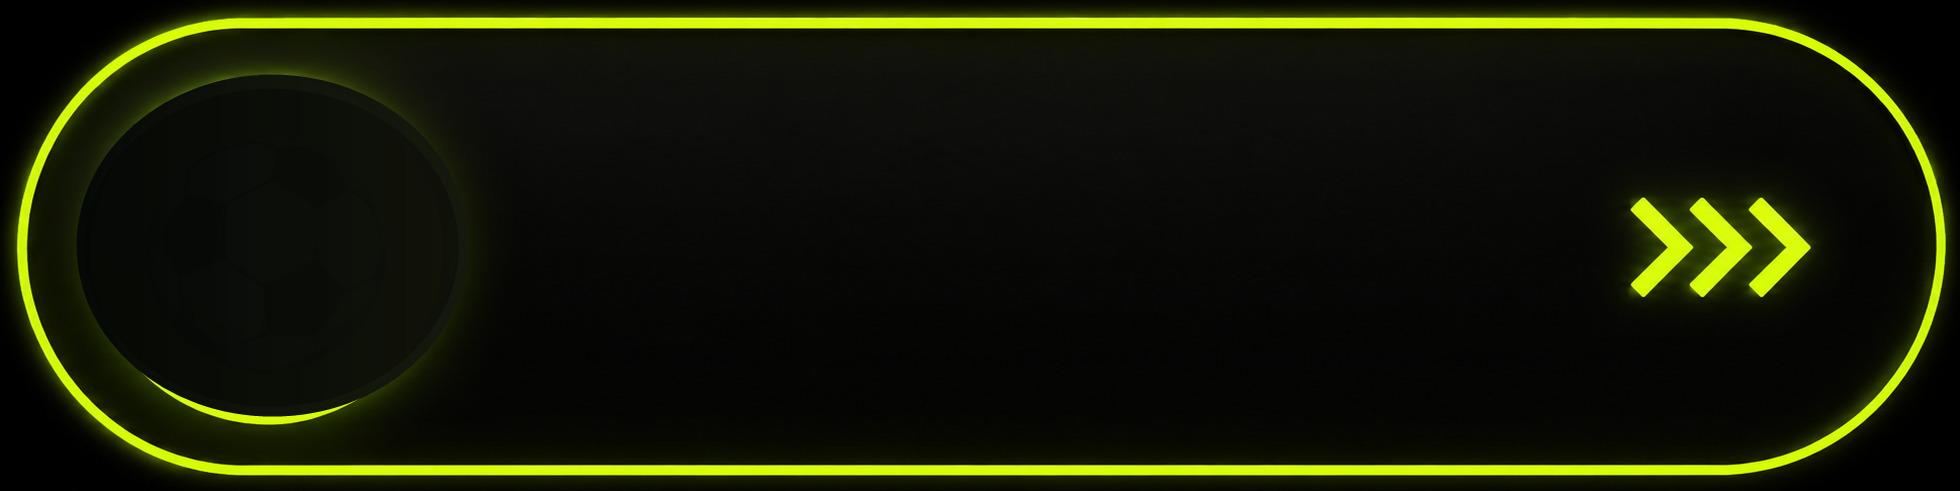
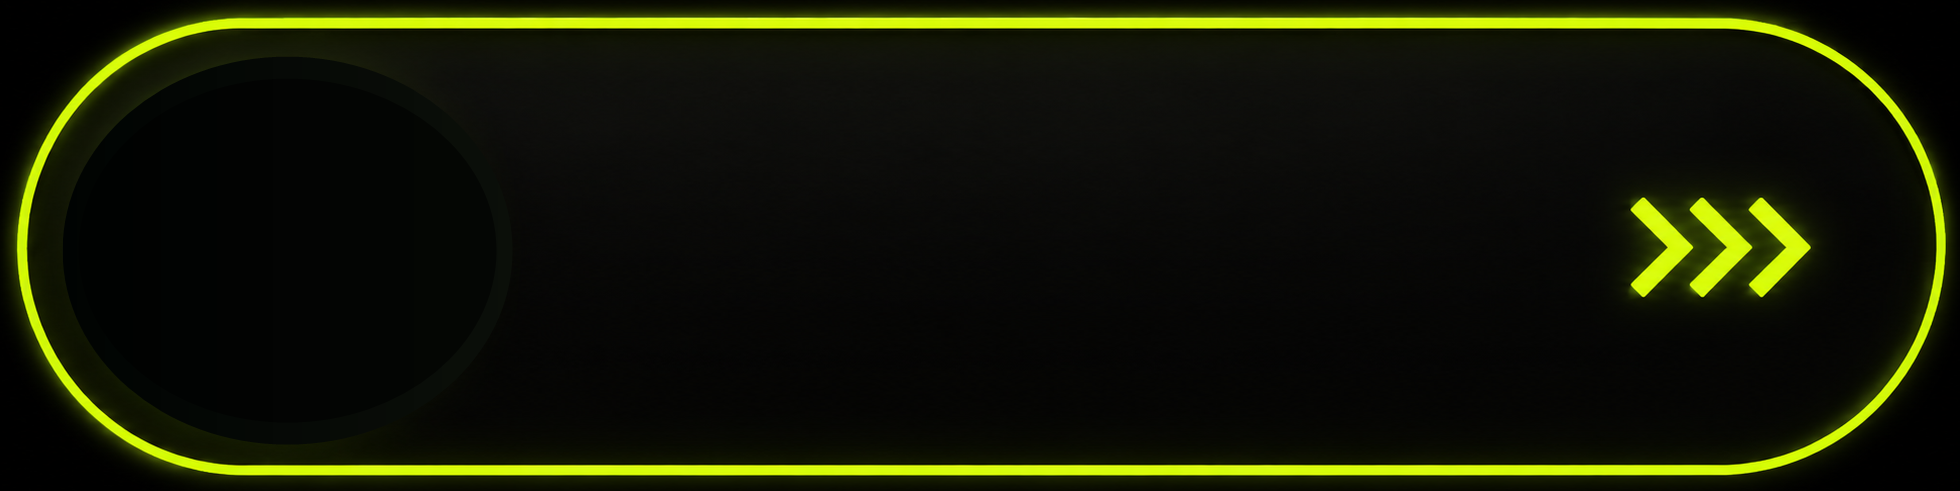
Improve splash swipe with draggable soccer ball handle

Changed region(s): [[0.0311, 0.1222, 0.2179, 0.8859], [0.1867, 0.1833, 0.2179, 0.2749]]

diff --git a/css/splash-fit.css b/css/splash-fit.css
@@ -22,4 +22,4 @@
 .splash-cover-v3{background-image:url("../assets/backgrounds/splash-poster.png")!important;background-size:cover!important;background-position:center center!important;background-repeat:no-repeat!important}.splash-cover-v3 .splash-cover-bg,.splash-cover-v3 .AcademyHeroPanel,.splash-cover-v3 .splash-academy-copy{display:none!important}.splash-cover-v3 .splash-academy-content{grid-template-rows:auto auto 1fr auto!important}.splash-cover-v3 .splash-logo-v1,.splash-cover-v3 .splash-title-v1,.splash-cover-v3 .splash-swipe{position:relative;z-index:2}
 .splash-cover-v3 .splash-logo-v1{width:clamp(260px,72vw,290px)!important;height:auto!important;max-width:72%!important;max-height:none!important;object-fit:contain!important;margin:0!important;padding:0!important;border:0!important;border-radius:0!important;background:transparent!important;box-shadow:none!important;filter:none!important;backdrop-filter:none!important}
 .splash-cover-v3 .splash-title-v1{display:grid!important;gap:.01em!important;width:100%!important;max-width:min(92vw,360px)!important;overflow:visible!important;color:#f7fff8!important;background:none!important;-webkit-background-clip:initial!important;background-clip:initial!important;text-align:center!important;justify-self:center!important;text-transform:uppercase!important;font-size:clamp(32px,8.7vw,42px)!important;line-height:.9!important;letter-spacing:-.045em!important;text-shadow:0 12px 34px rgba(0,0,0,.68)!important}.splash-cover-v3 .splash-title-v1 span{display:block;white-space:nowrap}.splash-cover-v3 .splash-title-v1 em{color:#d7ff2e;font-style:normal}
-.splash-cover-v3 .splash-swipe{width:min(92vw,340px)!important;display:block!important;position:relative!important;align-self:end!important;touch-action:none!important;cursor:pointer!important;--swipe-progress:0;--swipe-reveal:0%;--swipe-x:0px;--swipe-rotate:0deg}.splash-cover-v3 .splash-swipe-stage{position:relative;width:100%;display:grid;place-items:center}.splash-cover-v3 .splash-swipe-asset{position:relative;z-index:2;display:block;width:min(92vw,340px);height:auto;max-width:100%;object-fit:contain;pointer-events:none;user-select:none}.splash-cover-v3 .splash-swipe-stage>em{position:absolute;left:50%;top:50%;z-index:3;transform:translate(-50%,-50%);width:max-content;max-width:58%;overflow:hidden;clip-path:inset(0 calc(100% - var(--swipe-reveal)) 0 0);opacity:var(--swipe-progress);color:#f7fff8;font-size:clamp(14px,4.1vw,20px);font-weight:1000;font-style:normal;line-height:1;letter-spacing:.02em;text-transform:uppercase;text-shadow:0 0 14px rgba(215,255,46,.55),0 2px 10px rgba(0,0,0,.75);white-space:nowrap;pointer-events:none;transition:opacity .18s ease,clip-path .18s ease}.splash-cover-v3 .splash-swipe.dragging .splash-swipe-stage>em{transition:none}.splash-cover-v3 .splash-swipe-track{position:absolute!important;inset:0!important;z-index:4!important;display:block!important;width:100%!important;height:100%!important;padding:0!important;margin:0!important;border:0!important;border-radius:999px!important;background:transparent!important;box-shadow:none!important;overflow:visible!important;opacity:1!important}.splash-cover-v3 .splash-swipe-track::before,.splash-cover-v3 .splash-swipe-track::after{display:none!important;content:none!important}.splash-cover-v3 .splash-swipe-track b,.splash-cover-v3 .splash-swipe-track strong{display:none!important}
+.splash-cover-v3 .splash-swipe{width:min(92vw,340px)!important;display:block!important;position:relative!important;align-self:end!important;touch-action:none!important;cursor:pointer!important;--swipe-progress:0;--swipe-reveal:0%;--swipe-x:0px;--swipe-rotate:0deg}.splash-cover-v3 .splash-swipe-stage{position:relative;width:100%;display:grid;place-items:center}.splash-cover-v3 .splash-swipe-asset{position:relative;z-index:2;display:block;width:min(92vw,340px);height:auto;max-width:100%;object-fit:contain;pointer-events:none;user-select:none}.splash-cover-v3 .splash-swipe-handle{position:absolute;left:3.05%;top:50%;z-index:4;width:20.2%;height:auto;max-width:74px;min-width:54px;object-fit:contain;pointer-events:none;user-select:none;transform:translate(var(--swipe-x),-50%) rotate(var(--swipe-rotate));transition:transform .22s ease}.splash-cover-v3 .splash-swipe.dragging .splash-swipe-handle{transition:none}.splash-cover-v3 .splash-swipe-stage>em{position:absolute;left:50%;top:50%;z-index:3;transform:translate(-50%,-50%);width:max-content;max-width:58%;overflow:hidden;clip-path:inset(0 calc(100% - var(--swipe-reveal)) 0 0);opacity:var(--swipe-progress);color:#f7fff8;font-size:clamp(14px,4.1vw,20px);font-weight:1000;font-style:normal;line-height:1;letter-spacing:.02em;text-transform:uppercase;text-shadow:0 0 14px rgba(215,255,46,.55),0 2px 10px rgba(0,0,0,.75);white-space:nowrap;pointer-events:none;transition:opacity .18s ease,clip-path .18s ease}.splash-cover-v3 .splash-swipe.dragging .splash-swipe-stage>em{transition:none}.splash-cover-v3 .splash-swipe-track{position:absolute!important;inset:0!important;z-index:5!important;display:block!important;width:100%!important;height:100%!important;padding:0!important;margin:0!important;border:0!important;border-radius:999px!important;background:transparent!important;box-shadow:none!important;overflow:visible!important;opacity:1!important}.splash-cover-v3 .splash-swipe-track::before,.splash-cover-v3 .splash-swipe-track::after{display:none!important;content:none!important}.splash-cover-v3 .splash-swipe-track b,.splash-cover-v3 .splash-swipe-track strong{display:none!important}

diff --git a/js/app/main.js b/js/app/main.js
@@ -72,7 +72,7 @@ function setTrainingStage(stage){ trainingStage=stage; renderTrainingRoute(); }
 function setOnboardStep(step){ onboardingStep=step; const progress=document.querySelector(".onboard-progress"); if(progress){ progress.dataset.step=String(step); progress.setAttribute("aria-label",`Onboarding progress: step ${step} of 3`); } document.querySelectorAll("[data-onboard-step]").forEach(panel=>{ panel.hidden=Number(panel.dataset.onboardStep)!==step; }); document.querySelectorAll("[data-step-dot]").forEach(dot=>dot.classList.toggle("active",Number(dot.dataset.stepDot)===step)); const confirmName=document.getElementById("confirmName"), confirmPosition=document.getElementById("confirmPosition"); if(confirmName)confirmName.textContent=localStorage.getItem(PLAYER_NAME_KEY)||"—"; if(confirmPosition)confirmPosition.textContent=localStorage.getItem(SELECTED_POSITION_KEY)||selectedPosition||"—"; }
 function bindOnboardingWizard(){ const nameInput=document.getElementById("nameInput"); const storedName=localStorage.getItem(PLAYER_NAME_KEY)||""; if(nameInput){ nameInput.value=storedName; const next=document.querySelector('[data-action="onboard-next-name"]'); const updateName=()=>{ if(nameInput.value.trim())next?.removeAttribute("disabled"); else next?.setAttribute("disabled","true"); }; nameInput.addEventListener("input",updateName); updateName(); } if(currentRoute==="onboard")setOnboardStep(storedName?(localStorage.getItem(SELECTED_POSITION_KEY)?3:2):1); }
 function bindOnboardPositionSelector(){ const pitch=document.querySelector(".academy-pitch"), ball=document.querySelector(".pitch-ball"), confirm=document.querySelector("#positionConfirm"), cta=document.querySelector(".onboard-position-next"), nodes=[...document.querySelectorAll(".pitch-node")]; if(!pitch||!ball||!nodes.length)return; selectedPosition=localStorage.getItem(SELECTED_POSITION_KEY)||""; const updateCta=()=>{ if(selectedPosition)cta?.removeAttribute("disabled"); else cta?.setAttribute("disabled","true"); }; const setPosition=node=>{ if(!node)return; nodes.forEach(n=>n.classList.remove("selected","targeted")); node.classList.add("selected"); selectedPosition=node.dataset.pos; localStorage.setItem(SELECTED_POSITION_KEY,selectedPosition); ball.dataset.pos=selectedPosition; ball.style.gridArea=node.dataset.slot||node.style.gridArea; if(confirm)confirm.innerHTML=`<span>Selected:</span><b>${selectedPosition}</b>`; updateCta(); }; const nearestNode=(clientX,clientY)=>{ let nearest=null,best=Infinity; nodes.forEach(node=>{ const r=node.getBoundingClientRect(),x=r.left+r.width/2,y=r.top+r.height/2,d=Math.hypot(clientX-x,clientY-y); if(d<best){ best=d; nearest=node; } }); return nearest; }; nodes.forEach(node=>node.addEventListener("click",()=>setPosition(node))); if(selectedPosition){ const existing=nodes.find(n=>n.dataset.pos===selectedPosition); if(existing)setPosition(existing); } let dragging=false; ball.addEventListener("pointerdown",e=>{ dragging=true; ball.setPointerCapture?.(e.pointerId); ball.classList.add("dragging"); }); ball.addEventListener("pointermove",e=>{ if(!dragging)return; const node=nearestNode(e.clientX,e.clientY); nodes.forEach(n=>n.classList.toggle("targeted",n===node)); }); ball.addEventListener("pointerup",e=>{ if(!dragging)return; dragging=false; ball.classList.remove("dragging"); const node=nearestNode(e.clientX,e.clientY); setPosition(node); }); updateCta(); }
-function bindSplashSwipe(){ const swipe=document.querySelector("[data-splash-swipe]"),track=swipe?.querySelector(".splash-swipe-track"); if(!swipe||!track)return; let startX=0,dragging=false,entered=false; const setProgress=value=>{ const progress=Math.max(0,Math.min(1,value)),travel=Math.max(1,track.getBoundingClientRect().width-76); swipe.style.setProperty("--swipe-progress",String(progress)); swipe.style.setProperty("--swipe-reveal",`${progress*100}%`); swipe.style.setProperty("--swipe-x",`${travel*progress}px`); swipe.style.setProperty("--swipe-rotate",`${360*progress}deg`); }; const enter=()=>{ if(entered)return; entered=true; setProgress(1); swipe.classList.add("complete"); setTimeout(()=>handleAction("enter"),460); }; const update=clientX=>{ const travel=Math.max(1,track.getBoundingClientRect().width-76); setProgress((clientX-startX)/travel); }; swipe.addEventListener("pointerdown",event=>{ if(entered)return; const rect=track.getBoundingClientRect(); if(event.clientX>rect.left+rect.width*.34)return; dragging=true; startX=event.clientX; swipe.setPointerCapture?.(event.pointerId); swipe.classList.add("dragging"); setProgress(0); }); swipe.addEventListener("pointermove",event=>{ if(dragging)update(event.clientX); }); swipe.addEventListener("pointerup",event=>{ if(!dragging)return; dragging=false; swipe.classList.remove("dragging"); update(event.clientX); const progress=Number(getComputedStyle(swipe).getPropertyValue("--swipe-progress"))||0; progress>=.82?enter():setProgress(0); }); swipe.addEventListener("pointercancel",()=>{ dragging=false; swipe.classList.remove("dragging"); setProgress(0); }); swipe.addEventListener("click",event=>{ if(!dragging&&event.detail)enter(); }); swipe.addEventListener("keydown",event=>{ if(event.key==="Enter"||event.key===" "){ event.preventDefault(); enter(); } }); setProgress(0); }
+function bindSplashSwipe(){ const swipe=document.querySelector("[data-splash-swipe]"),track=swipe?.querySelector(".splash-swipe-track"),handle=swipe?.querySelector(".splash-swipe-handle"); if(!swipe||!track)return; let startX=0,dragging=false,entered=false; const metrics=()=>{ const trackRect=track.getBoundingClientRect(),handleRect=handle?.getBoundingClientRect(); const handleWidth=handleRect?.width||76,startOffset=Math.max(0,(handleRect?.left||trackRect.left)-trackRect.left); return{trackRect,handleWidth,startOffset,maxTravel:Math.max(1,trackRect.width-handleWidth-startOffset)}; }; const setProgress=value=>{ const progress=Math.max(0,Math.min(1,value)),maxTravel=metrics().maxTravel; swipe.style.setProperty("--swipe-progress",String(progress)); swipe.style.setProperty("--swipe-reveal",`${progress*100}%`); swipe.style.setProperty("--swipe-x",`${maxTravel*progress}px`); swipe.style.setProperty("--swipe-rotate",`${360*progress}deg`); }; const enter=()=>{ if(entered)return; entered=true; setProgress(1); swipe.classList.add("complete"); setTimeout(()=>handleAction("enter"),460); }; const update=clientX=>setProgress((clientX-startX)/metrics().maxTravel); swipe.addEventListener("pointerdown",event=>{ if(entered)return; const {trackRect,handleWidth,startOffset}=metrics(); if(event.clientX>trackRect.left+startOffset+handleWidth*1.35)return; dragging=true; startX=event.clientX; swipe.setPointerCapture?.(event.pointerId); swipe.classList.add("dragging"); setProgress(0); }); swipe.addEventListener("pointermove",event=>{ if(dragging)update(event.clientX); }); swipe.addEventListener("pointerup",event=>{ if(!dragging)return; dragging=false; swipe.classList.remove("dragging"); update(event.clientX); const progress=Number(getComputedStyle(swipe).getPropertyValue("--swipe-progress"))||0; progress>=.82?enter():setProgress(0); }); swipe.addEventListener("pointercancel",()=>{ dragging=false; swipe.classList.remove("dragging"); setProgress(0); }); swipe.addEventListener("click",event=>{ if(!dragging&&event.detail)enter(); }); swipe.addEventListener("keydown",event=>{ if(event.key==="Enter"||event.key===" "){ event.preventDefault(); enter(); } }); setProgress(0); }
 function bindScreen(){ document.querySelectorAll("[data-route]").forEach(el=>el.addEventListener("click",()=>{ const route=el.dataset.route; if(!VALID_ROUTES.has(route)){ console.warn("[PitchIQ route] Route missing:",route); toast("Route not available yet"); return; } goto(route); })); document.querySelectorAll("[data-action]").forEach(el=>el.addEventListener("click",()=>handleAction(el.dataset.action,el))); document.querySelectorAll("[data-answer]").forEach(el=>el.addEventListener("click",()=>manualAnswer(el.dataset.answer))); bindSplashSwipe(); bindOnboardingWizard(); bindOnboardPositionSelector(); document.querySelectorAll("[data-drill]").forEach(btn=>btn.addEventListener("click",()=>{ document.querySelectorAll("[data-drill]").forEach(b=>b.classList.remove("active")); btn.classList.add("active"); selectedDrillId=btn.dataset.drill; toast("Selected: "+btn.querySelector("b").textContent); })); const sens=document.getElementById("sensitivity"); if(sens)sens.addEventListener("input",e=>camera?.setSensitivity(Number(e.target.value))); }
 function handleAction(action,el){ if(action==="enter")return onboardingComplete()?goto("home"):goto("onboard"); if(action==="onboard-next-name")return onboardNextName(); if(action==="onboard-next-position")return onboardNextPosition(); if(action==="save-profile")return saveProfile(); if(action==="reset")return reset(); if(action==="player-settings-open")return togglePlayerSettings(true); if(action==="player-settings-close")return togglePlayerSettings(false); if(action==="training-home")return trainingHome(); if(action==="choose-drill-stage")return setTrainingStage("choose-drill"); if(action==="choose-difficulty-stage")return setTrainingStage("choose-difficulty"); if(action==="choose-drill")return chooseDrill(el); if(action==="choose-difficulty")return chooseDifficulty(el); if(action==="claim-reward-stage")return setTrainingStage("claim-reward"); if(action==="set-response-mode")return setResponseMode(el?.dataset?.mode); if(action==="start-mission-training")return startMissionTraining(); if(action==="training-setup-continue")return setTrainingStage("ready"); if(action==="training-setup-cancel")return trainingHome(); if(action==="start-training")return startRepCountdown(); if(action==="live-rep-exit")return requestExitRep(); if(action==="continue-live-rep")return resumeLiveRep(); if(action==="end-live-rep")return cancelLiveRep(); if(action==="voice")return startVoice(); if(action==="correct")return correct(); if(action==="wrong")return wrong(); if(action==="finish-training")return finishTraining(); if(action==="test-video")return testVideo(); if(action==="front-camera")return startCamera("user"); if(action==="rear-camera")return startCamera("environment"); if(action==="stop-camera")return camera?.stop(); if(action==="camera-round")return cameraRound(); if(action==="open-pack")return openPackAction(); }
 function onboardNextName(){ const name=document.getElementById("nameInput")?.value?.trim(); if(!name)return toast("Enter player name"); localStorage.setItem(PLAYER_NAME_KEY,name); setOnboardStep(2); }

diff --git a/js/app/routes.js b/js/app/routes.js
@@ -26,7 +26,7 @@ function playerOverall(state){ return Math.min(99,60+state.game.level+(state.ana
 
 export function AcademyHeroPanel(){return `<section class="AcademyHeroPanel" aria-label="Youth footballer scanning the field"><svg class="academy-hero-svg" viewBox="0 0 320 236" role="img" aria-labelledby="academyHeroTitle academyHeroDesc" preserveAspectRatio="xMidYMid meet"><title id="academyHeroTitle">PitchIQ Academy hero</title><desc id="academyHeroDesc">A youth footballer scans over the shoulder while an incoming ball and left-right scan arcs show football intelligence training.</desc><defs><radialGradient id="heroGlow" cx="50%" cy="42%" r="64%"><stop offset="0%" stop-color="#d7ff2e" stop-opacity=".28"/><stop offset="48%" stop-color="#31f79a" stop-opacity=".08"/><stop offset="100%" stop-color="#010806" stop-opacity="0"/></radialGradient><linearGradient id="kitGlow" x1="0" x2="1"><stop stop-color="#d7ff2e"/><stop offset="1" stop-color="#31f79a"/></linearGradient><filter id="softGlow" x="-60%" y="-60%" width="220%" height="220%"><feGaussianBlur stdDeviation="3" result="blur"/><feMerge><feMergeNode in="blur"/><feMergeNode in="SourceGraphic"/></feMerge></filter></defs><rect width="320" height="236" rx="28" fill="#020807"/><rect x="1" y="1" width="318" height="234" rx="27" fill="url(#heroGlow)"/><g class="hero-particles" fill="#d7ff2e" opacity=".55"><circle cx="58" cy="58" r="1.4"/><circle cx="91" cy="76" r="1"/><circle cx="238" cy="54" r="1.2"/><circle cx="268" cy="82" r="1"/><circle cx="46" cy="132" r="1"/><circle cx="282" cy="145" r="1.4"/></g><g class="hero-pitch" stroke="#d7ff2e" stroke-opacity=".22" fill="none"><path d="M20 196h280"/><path d="M42 168h236"/><path d="M69 142h182"/><path d="M160 142v54"/><path d="M97 196c8-22 118-22 126 0"/><path d="M126 196c3-8 65-8 68 0"/><path d="M120 168h80v28h-80z" opacity=".55"/><path d="M145 168h30v14h-30z" opacity=".5"/></g><g class="scan scan-left" stroke="#d7ff2e" stroke-width="1.7" stroke-linecap="round" fill="none" filter="url(#softGlow)"><path d="M142 92 C104 90 74 107 50 136" stroke-dasharray="4 7"/><path d="M139 111 C105 112 82 126 61 151" opacity=".72"/><path d="M78 126 l-28 10 19 18"/><path d="M64 89 q34 21 67 20" opacity=".35"/></g><g class="scan scan-right" stroke="#d7ff2e" stroke-width="1.7" stroke-linecap="round" fill="none" filter="url(#softGlow)"><path d="M178 90 C216 88 248 105 272 134" stroke-dasharray="4 7"/><path d="M181 111 C218 112 240 126 260 151" opacity=".72"/><path d="M242 124 l28 10 -19 18"/><path d="M256 88 q-34 22-67 21" opacity=".35"/></g><g class="incoming-ball" transform="translate(236 47)"><path d="M-26 18 q-30 9-58 35" stroke="#d7ff2e" stroke-width="1.4" stroke-linecap="round" stroke-dasharray="7 8" opacity=".58"/><circle cx="0" cy="0" r="19" fill="#ecffe1" stroke="#d7ff2e" stroke-width="2" filter="url(#softGlow)"/><path d="M0-12 l11 8 -4 13h-14l-4-13z" fill="#101711" opacity=".88"/><path d="M0-19v7M18-5l-7 1M11 16L7 9M-11 16l4-7M-18-5l7 1" stroke="#101711" stroke-width="2" opacity=".82"/></g><g class="player-silhouette" filter="url(#softGlow)"><path d="M164 83 q14 2 23 15 q5 8 3 20 q-5 25-15 56 h-42 q7-39 5-61 q-1-17 8-25 q7-6 18-5z" fill="#03100b" stroke="url(#kitGlow)" stroke-width="2"/><path d="M151 79 q4-18 21-18 q17 1 21 17 q-7 11-22 13 q-13 0-20-12z" fill="#06120d" stroke="#d7ff2e" stroke-width="1.6"/><path d="M187 87 q13 9 25 29" stroke="#d7ff2e" stroke-width="5" stroke-linecap="round" opacity=".42"/><path d="M142 101 q-19 19-31 42" stroke="#d7ff2e" stroke-width="5" stroke-linecap="round" opacity=".42"/><path d="M146 174 l-20 43M171 174 l22 43" stroke="#06120d" stroke-width="16" stroke-linecap="round"/><path d="M146 174 l-20 43M171 174 l22 43" stroke="#d7ff2e" stroke-width="2" stroke-linecap="round" opacity=".65"/><path d="M158 67 q14-12 33 2 q-6-18-27-17 q-18 2-25 17 q10-5 19-2z" fill="#010605" stroke="#d7ff2e" stroke-opacity=".4"/></g><g class="scan-labels" fill="#d7ff2e" font-family="Inter, Arial, sans-serif" font-weight="900" font-size="10" letter-spacing="1"><text x="32" y="159">SCAN LEFT</text><text x="226" y="159">SCAN RIGHT</text></g></svg></section>`}
 
-export function renderSplash(){return `<section class="screen center active splash-v1 splash-academy-v2 splash-cover-v3" id="splash"><div class="splash-content splash-academy-content"><img class="logo hero-logo splash-logo-v1 splash-academy-logo" src="assets/brand/welltrack-performance-logo.png" alt="WellTrack Performance"><h1 class="splash-title-v1 splash-academy-title"><span>TRAIN THE <em>BRAIN</em></span><span>BEHIND THE <em>GAME</em></span></h1><div class="splash-swipe" data-splash-swipe role="button" tabindex="0" aria-label="Swipe right to enter the academy"><div class="splash-swipe-stage"><em>ENTER ACADEMY</em><img class="splash-swipe-asset" src="assets/controls/swipe-bar.png" alt="" aria-hidden="true"><i class="splash-swipe-track" aria-hidden="true"></i></div></div></div></section>`}
+export function renderSplash(){return `<section class="screen center active splash-v1 splash-academy-v2 splash-cover-v3" id="splash"><div class="splash-content splash-academy-content"><img class="logo hero-logo splash-logo-v1 splash-academy-logo" src="assets/brand/welltrack-performance-logo.png" alt="WellTrack Performance"><h1 class="splash-title-v1 splash-academy-title"><span>TRAIN THE <em>BRAIN</em></span><span>BEHIND THE <em>GAME</em></span></h1><div class="splash-swipe" data-splash-swipe role="button" tabindex="0" aria-label="Swipe right to enter the academy"><div class="splash-swipe-stage"><em>ENTER ACADEMY</em><img class="splash-swipe-asset" src="assets/controls/swipe-bar.png" alt="" aria-hidden="true"><img class="splash-swipe-handle" src="assets/controls/swipe-ball.png" alt="" aria-hidden="true"><i class="splash-swipe-track" aria-hidden="true"></i></div></div></div></section>`}
 export function renderOnboard(){const positions=[["ST","st"],["LW","lw"],["CAM","cam"],["RW","rw"],["CM","cm"],["CDM","cdm"],["LB","lb"],["CB","cb1"],["CB","cb2"],["RB","rb"],["GK","gk"]];return `<section class="screen center active onboard-v1" id="onboard"><div class="splash-atmosphere"><i></i><i></i><i></i><i></i><i></i><i></i></div><div class="splash-spotlight"></div><div class="onboard-content onboarding-wizard"><img src="assets/brand/logo.svg" class="logo onboard-logo-v1" alt="PitchIQ"><div class="onboard-progress" aria-label="Onboarding progress"><span data-step-dot="1" aria-label="Step 1"></span><i></i><span data-step-dot="2" aria-label="Step 2"></span><i></i><span data-step-dot="3" aria-label="Step 3"></span></div><section class="onboard-step" data-onboard-step="1"><span class="position-title">Step 1 of 3</span><h1>Who is<br>training?</h1><input id="nameInput" aria-label="Player name" placeholder="Player name" maxlength="18" autocomplete="name"><div class="onboard-step-footer"><button class="primary mega splash-cta-v1 onboard-cta-v1 sticky-cta" data-action="onboard-next-name" disabled>CONTINUE →</button></div></section><section class="onboard-step" data-onboard-step="2" hidden><span class="position-title">Step 2 of 3</span><h1>Choose your<br>position</h1><div class="academy-pitch pitch-selector" role="group" aria-label="Choose Position">${positions.map(([p,slot])=>`<button type="button" data-pos="${p}" data-slot="${slot}" class="pitch-node" style="grid-area:${slot}">${p}</button>`).join("")}<button type="button" class="pitch-ball" aria-label="Drag football to position">⚽</button></div><div id="positionConfirm" class="position-confirm"><span>Selected:</span><b>—</b></div><div class="onboard-step-footer"><button class="primary mega splash-cta-v1 onboard-cta-v1 sticky-cta onboard-position-next" data-action="onboard-next-position" disabled>CONTINUE →</button></div></section><section class="onboard-step" data-onboard-step="3" hidden><span class="position-title">Step 3 of 3</span><h1>Enter<br>Academy</h1><div class="onboard-confirm-card"><small>Player</small><b id="confirmName">—</b><small>Position</small><strong id="confirmPosition">—</strong></div><div class="onboard-step-footer"><button class="primary mega splash-cta-v1 onboard-cta-v1 sticky-cta" data-action="save-profile">ENTER ACADEMY →</button></div></section></div></section>`}
 export function renderMission(state){return `<section class="screen center active" id="mission"><div class="mission-card"><span class="kicker">🔥 Day ${state.game.streak} mission</span><h1>Beat yesterday.</h1><h2>Unlock Academy Boots.</h2><img src="assets/art/boots.svg" class="boots" alt="Academy Boots"><button class="primary mega" data-route="home">Continue</button></div></section>`}
 function homeMetrics(state){const need=xpNeed(state.game.level),rank=rankForLevel(state.game.level),pct=Math.min(100,Math.round(state.game.xp/need*100)),overall=playerOverall(state),best=state.analytics.bestReaction?state.analytics.bestReaction+" ms":"—",weeklyTotal=state.analytics.weeklyXp.reduce((a,b)=>a+b,0),lastWeek=Math.max(1,Math.round(weeklyTotal*.85)),trend=Math.round((weeklyTotal-lastWeek)/lastWeek*100),rewardPct=state.game.dailyDone?100:pct,rewardState=state.game.dailyDone?(state.game.packOpened?"Opened":"Reward Ready"):rewardPct+"% to unlock",nextMilestone=state.game.level<4?"Local Club":state.game.level<8?"Division 3":"Academy",milestoneLevel=state.game.level<4?4:state.game.level<8?8:26,previousMilestoneLevel=state.game.level<4?1:state.game.level<8?4:8,milestonePct=Math.min(100,Math.round((state.game.level-previousMilestoneLevel)/Math.max(1,milestoneLevel-previousMilestoneLevel)*100));return{need,rank,pct,overall,best,weeklyTotal,lastWeek,trend,rewardPct,rewardState,nextMilestone,milestoneLevel,milestonePct}}